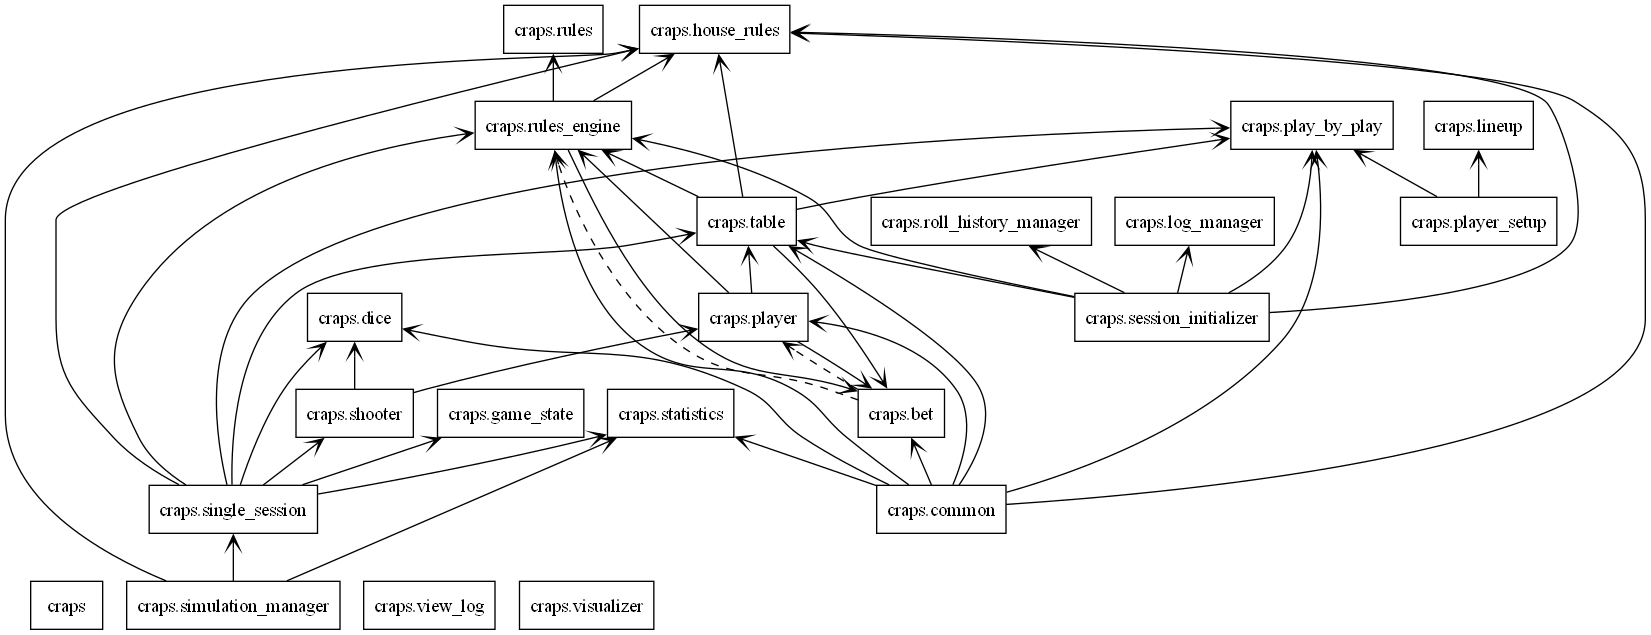
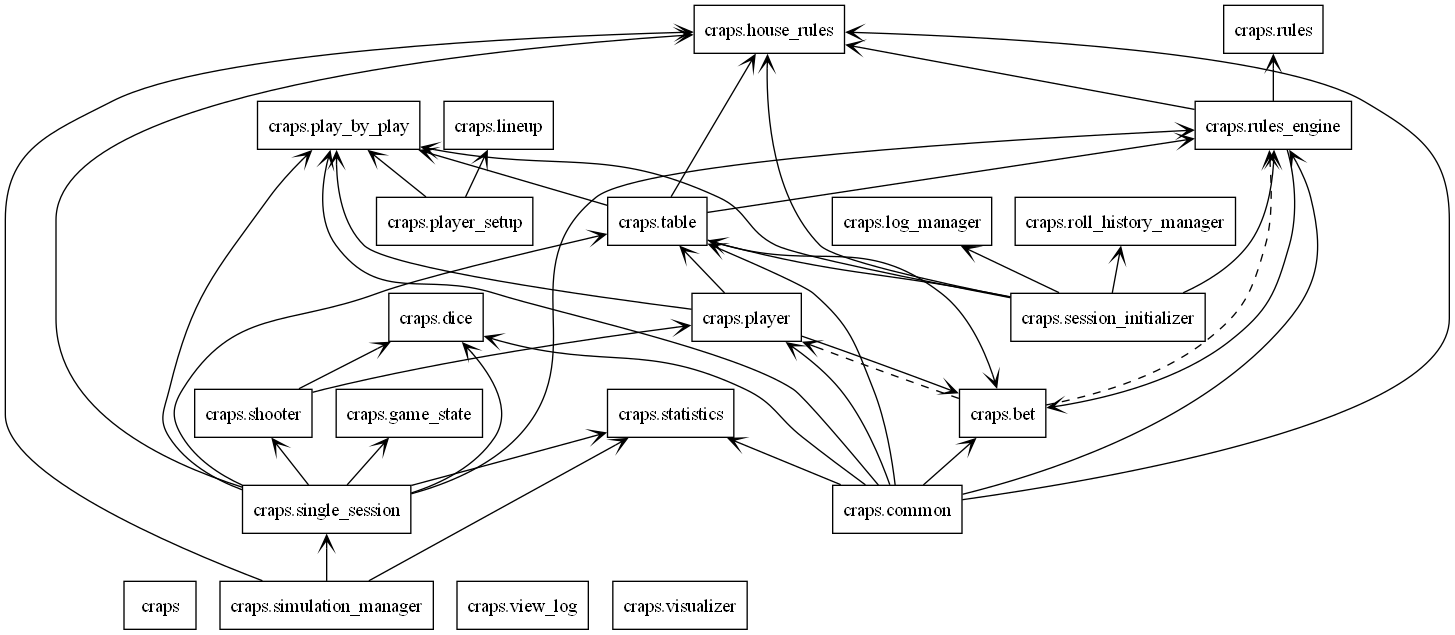
Rules Engine Owned by Table + Tuple

diff --git a/craps/player.py b/craps/player.py
@@ -1,12 +1,11 @@
-# File: .\craps\player.py
-
 from colorama import Fore, Style
 from typing import List, Union, Optional, Any
 from craps.bet import Bet
 from craps.table import Table
+from craps.play_by_play import PlayByPlay
 
 class Player:
-    def __init__(self, name: str, initial_balance: int = 500, betting_strategy: Any = None, play_by_play: Any = None) -> None:
+    def __init__(self, name: str, initial_balance: int = 500, betting_strategy: Any = None, play_by_play: Optional[PlayByPlay] = None) -> None:
         """
         Initialize a player.
 
@@ -15,65 +14,47 @@ class Player:
         :param betting_strategy: The betting strategy used by the player.
         :param play_by_play: The PlayByPlay instance for writing play-by-play messages.
         """
-        self.name = name
-        self.balance = initial_balance
-        self.betting_strategy = betting_strategy
-        self.play_by_play = play_by_play
+        self.name: str = name
+        self.balance: int = initial_balance
+        self.betting_strategy: Any = betting_strategy
+        self.play_by_play: Optional[PlayByPlay] = play_by_play
 
-    def place_bet(self, bet_type: Union[str, List[str]], amount: Union[int, List[int]], table: Table, phase: str, numbers: List[int] = None) -> bool:
+    def place_bet(self, bet: Union[Bet, List[Bet]], table: Table, phase: str) -> bool:
         """
         Place a bet (or multiple bets) on the table and deduct the amount from the player's balance.
 
-        :param bet_type: The type of bet(s) to place.
-        :param amount: The amount(s) to wager.
-        :param table: The Table object where bets are placed.
+        :param bet: The bet(s) to place.
+        :param table: The table to place the bet on.
         :param phase: The current game phase ("come-out" or "point").
-        :param numbers: Optional list of numbers associated with bets (for Place bets, etc.).
-        :return: True if all bets were placed successfully, False otherwise.
+        :return: True if the bet(s) were placed successfully, False otherwise.
         """
-        rules_engine = table.get_rules_engine()  # ✅ Query Table for RulesEngine
+        bets: List[Bet] = [bet] if not isinstance(bet, list) else bet
 
-        # Normalize inputs to lists for uniform handling
-        bet_types = [bet_type] if isinstance(bet_type, str) else bet_type
-        amounts = [amount] if isinstance(amount, int) else amount
-        numbers = numbers or [None] * len(bet_types)
+        for b in bets:
+            if hasattr(b, 'parent_bet') and b.parent_bet is not None:
+                if b.parent_bet.owner != self:
+                    raise ValueError("Cannot place odds bet on another player's bet")
+                if not table.has_bet(b.parent_bet):
+                    raise ValueError("Parent bet must be on the table before placing odds")
 
-        if len(bet_types) != len(amounts):
-            raise ValueError("bet_type and amount lists must have the same length.")
+        total_amount: int = sum(b.amount for b in bets)
 
-        # Create bets using RulesEngine
-        bets: List[Bet] = []
-        for bt, amt, num in zip(bet_types, amounts, numbers):
-            bet = rules_engine.create_bet(bt, amt, self, number=num)
-            bets.append(bet)
-
-        # Validate odds bets (must have parent bets already placed)
-        for bet in bets:
-            if bet.parent_bet and not table.has_bet(bet.parent_bet):
-                message = f"{Fore.RED}❌ Cannot place odds bet {bet.bet_type} without a parent bet.{Style.RESET_ALL}"
-                self.play_by_play.write(message)
-                return False
-
-        # Calculate total bet amount
-        total_amount = sum(b.amount for b in bets)
-
-        # Ensure player has sufficient funds
         if total_amount > self.balance:
-            message = f"{Fore.RED}❌ {self.name} has insufficient funds to place ${total_amount} in bets.{Style.RESET_ALL}"
-            self.play_by_play.write(message)
+            message: str = f"{Fore.RED}❌ {self.name} has insufficient funds to place ${total_amount} in bets.{Style.RESET_ALL}"
+            if self.play_by_play:
+                self.play_by_play.write(message)
             return False
 
-        # Place bets on the table
-        for bet in bets:
-            if not table.place_bet(bet, phase):
-                message = f"{Fore.RED}❌ Failed to place {bet.bet_type} bet for {self.name}.{Style.RESET_ALL}"
-                self.play_by_play.write(message)
+        for b in bets:
+            if not table.place_bet(b, phase):
+                message = f"{Fore.RED}❌ Failed to place {b.bet_type} bet for {self.name}.{Style.RESET_ALL}"
+                if self.play_by_play:
+                    self.play_by_play.write(message)
                 return False
 
-        # Deduct balance only after successful bet placement
-        self.balance -= total_amount
-        message = f"{Fore.GREEN}✅ {self.name} placed ${total_amount} in bets. New balance: ${self.balance}.{Style.RESET_ALL}"
-        self.play_by_play.write(message)
+            message = f"{Fore.GREEN}✅ {self.name} placed a ${b.amount} {b.bet_type} bet. Bankroll: ${self.balance}.{Style.RESET_ALL}"
+            if self.play_by_play:
+                self.play_by_play.write(message)
 
         return True
 
@@ -84,8 +65,9 @@ class Player:
         :param payout: The payout amount.
         """
         self.balance += payout
-        message = f"{Fore.GREEN}✅ {self.name} received a payout of ${payout}. Bankroll: ${self.balance}.{Style.RESET_ALL}"
-        self.play_by_play.write(message)  # Write the message to the play-by-play file
+        message: str = f"{Fore.GREEN}✅ {self.name} received a payout of ${payout}. Bankroll: ${self.balance}.{Style.RESET_ALL}"
+        if self.play_by_play:
+            self.play_by_play.write(message)
 
     def has_active_bet(self, table: Table, bet_type: str, number: Optional[int] = None) -> bool:
         """

diff --git a/craps/shooter.py b/craps/shooter.py
@@ -1,37 +1,49 @@
-from colorama import Fore, Style
-from typing import Any, Tuple
 from craps.player import Player
 from craps.dice import Dice
+from typing import Optional, List, Tuple, Any
 
 class Shooter(Player):
-    def __init__(self, name: str, initial_balance: int = 500, betting_strategy: Any = None, dice: Dice = None, play_by_play: Any = None):
+    def __init__(
+        self, 
+        name: str, 
+        initial_balance: int = 0, 
+        betting_strategy: Optional[Any] = None, 
+        dice: Optional[Dice] = None, 
+        play_by_play: Optional[Any] = None
+    ) -> None:
         """
-        Initialize a shooter.
+        Initialize the shooter.
 
         :param name: The name of the shooter.
         :param initial_balance: The initial bankroll of the shooter.
         :param betting_strategy: The betting strategy used by the shooter.
-        :param dice: The Dice instance used for rolling.
-        :param play_by_play: The PlayByPlay instance for logging game events.
+        :param dice: An optional Dice instance for rolling dice.
+        :param play_by_play: The PlayByPlay instance for logging.
         """
         super().__init__(name, initial_balance, betting_strategy, play_by_play)
-        self.dice = dice if dice else Dice()
-        self.current_roll_count = 0
-        self.rolls_before_7_out = []
+        self.dice: Dice = dice if dice else Dice()  # Ensure Dice instance
+        self.points_rolled: int = 0
+        self.rolls_before_7_out: List[int] = []  # Explicit type annotation
+        self.current_roll_count: int = 0  # Tracks rolls in the current turn
 
     def roll_dice(self) -> Tuple[int, int]:
         """
-        Roll the dice and return the outcome.
+        Roll the dice and update shooter statistics.
 
-        :return: A tuple representing the outcome of the dice roll.
+        :return: A tuple representing the dice roll (e.g., (3, 4)).
         """
-        outcome = self.dice.roll()
+        outcome: List[int] = self.dice.roll()
         self.current_roll_count += 1
-        return outcome
+
+        if len(outcome) != 2:
+            raise ValueError(f"Dice roll must return exactly two values, got: {outcome}")
+
+        return outcome[0], outcome[1]  # Ensure exactly (int, int)
 
     def reset_stats(self) -> None:
         """
-        Reset the shooter's statistics for a new round.
+        Reset shooter statistics for a new turn.
         """
-        self.current_roll_count = 0
+        self.points_rolled = 0
         self.rolls_before_7_out = []
+        self.current_roll_count = 0

diff --git a/craps/common.py b/craps/common.py
@@ -1,4 +1,4 @@
-from typing import Optional, List
+from typing import Optional, List, Tuple
 from craps.house_rules import HouseRules
 from craps.table import Table
 from craps.play_by_play import PlayByPlay
@@ -25,7 +25,7 @@ class CommonTableSetup:
         self.rules_engine: RulesEngine = RulesEngine()
 
         # Initialize the table
-        self.table: Table = Table(self.house_rules, self.play_by_play, self.rules_engine)
+        self.table: Table = Table(self.house_rules, self.play_by_play)
 
         # Initialize a player
         self.player_name: str = "Alice"
@@ -61,7 +61,7 @@ class CommonTableSetup:
         self.table.place_bet(bet, phase)
         return bet
 
-    def simulate_roll(self, dice_outcome: List[int], phase: str = "come-out", point: Optional[int] = None) -> List[Bet]:
+    def simulate_roll(self, dice_outcome: Tuple[int, int], phase: str = "come-out", point: Optional[int] = None) -> List[Bet]:
         """
         Simulate a dice roll and resolve bets on the table.
 

diff --git a/craps/table.py b/craps/table.py
@@ -1,7 +1,7 @@
 # File: .\craps\table.py
 
 from colorama import Fore, Style
-from typing import List, Optional
+from typing import List, Optional, Tuple
 from craps.bet import Bet
 from craps.play_by_play import PlayByPlay
 from craps.house_rules import HouseRules
@@ -69,7 +69,7 @@ class Table:
         self.play_by_play.write(message)
         return True
 
-    def check_bets(self, dice_outcome: List[int], phase: str, point: Optional[int]) -> None:
+    def check_bets(self, dice_outcome: Tuple[int, int], phase: str, point: Optional[int]) -> None:
         """
         Check and resolve all bets on the table based on the dice outcome, phase, and point.
 

diff --git a/craps/rules_engine.py b/craps/rules_engine.py
@@ -141,7 +141,7 @@ class RulesEngine:
         raise ValueError(f"Invalid payout type {payout_key} for bet {bet_type} (number={number})")
 
     @staticmethod
-    def resolve_bet(bet: Bet, dice_outcome: List[int], phase: str, point: Optional[int]) -> int:
+    def resolve_bet(bet: Bet, dice_outcome: Tuple[int, int], phase: str, point: Optional[int]) -> int:
         """
         Resolves a bet based on the dice outcome, phase, and point.
         Uses a structured approach based on bet categories.

diff --git a/craps/game_state.py b/craps/game_state.py
@@ -1,4 +1,4 @@
-from typing import List, Optional, Any
+from typing import List, Optional, Any, Tuple
 from colorama import Fore, Style
 
 class GameState:
@@ -42,7 +42,7 @@ class GameState:
         """Check if the puck should be 'ON' (point is set)."""
         return self._point is not None
 
-    def update_state(self, dice_outcome: List[int]) -> str:
+    def update_state(self, dice_outcome: Tuple[int, int]) -> str:
         """
         Update the game state based on the dice outcome.
 

diff --git a/craps/bet.py b/craps/bet.py
@@ -83,7 +83,7 @@ class Bet:
 
         return True
 
-    def resolve(self, rules_engine: RulesEngine, dice_outcome: List[int], phase: str, point: Optional[int]) -> None:
+    def resolve(self, rules_engine: RulesEngine, dice_outcome: Tuple[int, int], phase: str, point: Optional[int]) -> None:
         """
         Resolve the bet based on the dice outcome, phase, and point.
         Delegates resolution logic to the RulesEngine.

diff --git a/craps/single_session.py b/craps/single_session.py
@@ -32,7 +32,7 @@ def run_single_session(
 
     # Initialize components
     rules_engine = RulesEngine()
-    table = Table(house_rules, play_by_play, rules_engine)
+    table = Table(house_rules, play_by_play)
     stats = Statistics(house_rules.table_minimum, num_shooters, len(strategies))
     stats.roll_history = []  # Ensure roll_history is initialized
     game_state = GameState(stats, play_by_play=play_by_play)

diff --git a/craps/session_initializer.py b/craps/session_initializer.py
@@ -33,7 +33,7 @@ class InitializeSession:
         house_rules = HouseRules(self.house_rules_config)
 
         # Create the Table object with the RulesEngine
-        table = Table(house_rules, self.play_by_play, self.rules_engine)
+        table = Table(house_rules, self.play_by_play)
 
         # Delete the existing log file before starting the session
         self.log_manager.delete_log_file()
